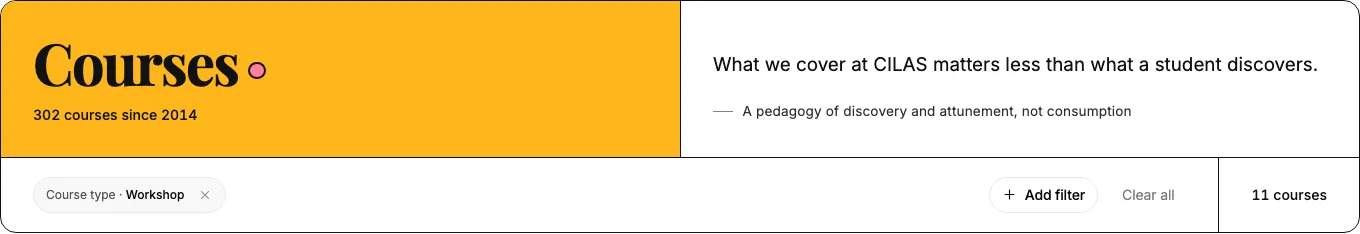
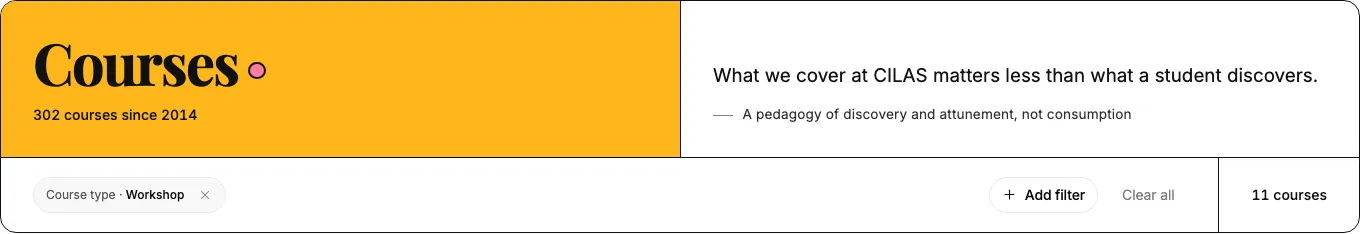
fix(study): tidy the header card on phones
Keep the quote's source dash beside its first line, give the filters
the whole row, and drop the result count to a row of its own.

Changed region(s): [[0.525, 0.2393, 0.9882, 0.359], [0.525, 0.4487, 0.8338, 0.5085]]

diff --git a/src/app/(frontend)/styles.css b/src/app/(frontend)/styles.css
@@ -1986,8 +1986,19 @@ a.collection-item:hover {
   border-inline-start: 0;
   color: var(--poster-ink);
 }
+.study-card .study-quote footer {
+  display: flex;
+}
+/* The source's dash stays beside the first line of the source, even when
+   the source wraps. */
 .study-card .study-quote cite {
+  flex-wrap: nowrap;
   color: oklch(0.3 0 0);
+}
+.study-card .study-quote cite::before {
+  flex: none;
+  align-self: flex-start;
+  margin-block-start: 0.72em;
 }
 /* The filters row: the toolbar loses its own box and sits on the paper; the
    count is its own cell at the row's end. */
@@ -2015,6 +2026,34 @@ a.collection-item:hover {
   font-weight: 500;
   font-variant-numeric: tabular-nums;
   color: var(--poster-ink);
+}
+/* On narrow cards the filters take the whole row and the count drops to a
+   row of its own under them. */
+@container study-card (width <= 34rem) {
+  .study-card-filters {
+    flex-wrap: wrap;
+  }
+  .study-card-filters > [role='group'],
+  .study-card-count {
+    flex-basis: 100%;
+  }
+  .study-card-count {
+    border-inline-start: 0;
+    border-block-start: 1px solid var(--poster-ink);
+  }
+  /* The toolbar's own phone layout stacks its buttons under the chips; here
+     they share a row while they fit, and wrap to the row's end when not. */
+  .study-card-filters > [role='group'] {
+    flex-direction: row;
+    flex-wrap: wrap;
+    align-items: center;
+  }
+  .study-card-filters > [role='group'] > :first-child {
+    flex: 1 1 8rem;
+  }
+  .study-card-filters > [role='group'] > :last-child {
+    margin-inline-start: auto;
+  }
 }
 @container study-card (width > 48rem) {
   .study-card {

diff --git a/docs/content-driven-card-layouts.md b/docs/content-driven-card-layouts.md
@@ -284,7 +284,7 @@ A section that holds a list rather than a single card (the course flow beside th
 
 The fellow card maps the poster like this: photo (media cell, 4:3 when stacked; when wide, a `min(36%, 18rem)` column that the photo fills from top to bottom, at least square, so its end meets the end of the text beside it; the image covers the cell from its focal point), name on the colour panel (section-heading style, regular weight), the bio as a paper cell under the name, then one ruled foot row instead of the poster's strip: the notice label (icon box and "From the fellow") under the photo column, and "View profile" in the card's colour across the text column, its words on the bio's text edge. The fellows' note follows on paper. The note is course-level: with one fellow it closes that card; with several it gets its own card after theirs, in the next palette colour, with an empty paper cell where the action would be. A card without a note keeps an empty paper box under the photo on wide cards, and gives the action the whole row on narrow ones. Content sizes the card; nothing shares a height with a neighbour.
 
-The study page header is the same card as a page head, with no photo: the page title (bold, see Type) and the course count on the yellow panel, words set at its bottom; the quote on paper beside it, with no rule at its side, when the card is wider than `48rem`, under it when narrower; and the course filters on paper across the foot, the Arc filter toolbar without its own border, radius or fill, so the card's rule is its only box, and the result count in its own ruled cell at the row's end. The card keeps the light theme's tokens for the toolbar in both themes, and has no `overflow: clip`, so the filter menu can open past it (the panel rounds its own top corners instead). While any filter is on, a pink dot with an ink ring follows the title; it pulses while the next list loads, and stays still with reduced motion.
+The study page header is the same card as a page head, with no photo: the page title (bold, see Type) and the course count on the yellow panel, words set at its bottom; the quote on paper beside it, with no rule at its side, when the card is wider than `48rem`, under it when narrower; and the course filters on paper across the foot, the Arc filter toolbar without its own border, radius or fill, so the card's rule is its only box, and the result count in its own ruled cell at the row's end. On cards up to `34rem` wide the filters take the whole row (the toolbar's buttons share the chips' row while they fit) and the count drops to a ruled row of its own under them. The card keeps the light theme's tokens for the toolbar in both themes, and has no `overflow: clip`, so the filter menu can open past it (the panel rounds its own top corners instead). While any filter is on, a pink dot with an ink ring follows the title; it pulses while the next list loads, and stays still with reduced motion.
 
 ## 8. Verification
 
